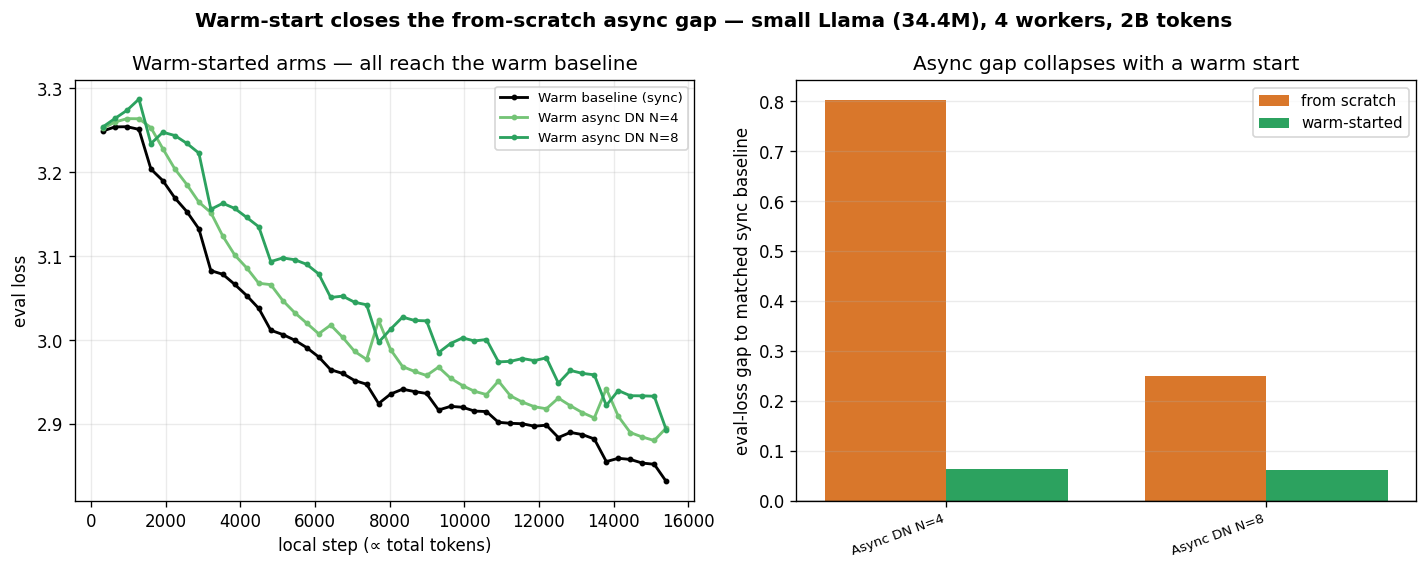
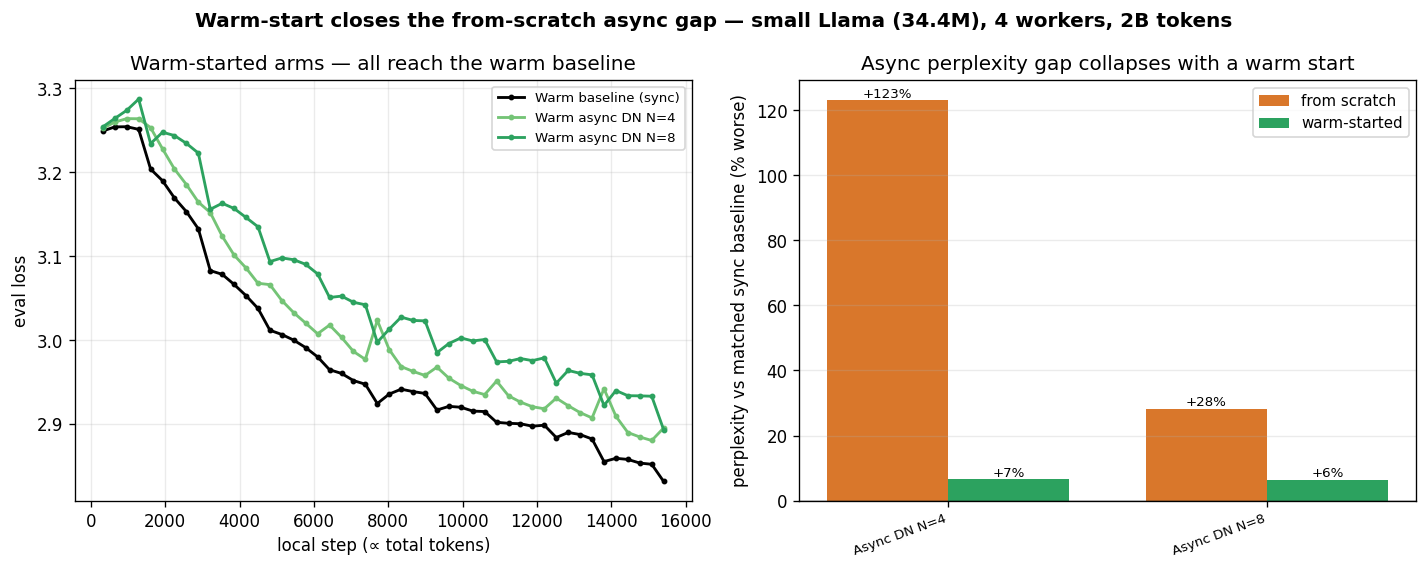
diloco_features: report comparisons as relative perplexity (§3.7)
Per review: comparing raw eval loss across the scratch (2B from random init) and
warm (2B on top of 500M) groups is meaningless. Use relative perplexity vs each
group's OWN sync baseline — "% worse perplexity than the matched baseline" — which
normalizes out the different starting points (and perplexity is the DiLoCo paper's
reporting unit).

- §3.7.1 warm table: drop the raw scratch-vs-warm loss juxtaposition; show warm
  eval/ppl + % worse ppl vs warm base, alongside the scratch arms' % worse ppl vs
  scratch base (+123%/+28% scratch -> +6.6%/+6.4% warm).
- warm_compare.py bar chart: relative perplexity (% worse vs matched baseline),
  not raw eval-loss gap; with value labels.
- Perplexity column now in every results table (added to DyLU); all comparison
  columns expressed as % worse ppl for consistency (diverged no-DN reads
  "diverged"). Prose/abstract/§5 updated to match.

diff --git a/examples/tiny_experiments/diloco_features/analysis/warm_compare.py b/examples/tiny_experiments/diloco_features/analysis/warm_compare.py
@@ -15,9 +15,11 @@ normalizes each group to its own baseline):
   * Left — the warm arms only, eval loss: baseline + async (+ DyLU) all hug each
     other near the warm baseline. (Warm curves start mid-descent, from the
     checkpoint.) Own y-range.
-  * Right — the async gap to its *matched* sync baseline, scratch vs warm, per
-    arm (deltas, so comparable): the collapse from +0.25..+0.80 (scratch) to
-    ~+0.03..+0.06 (warm).
+  * Right — RELATIVE PERPLEXITY vs each group's *own* matched sync baseline
+    (% worse, = (exp(eval - base) - 1)·100), scratch vs warm, per arm. This is the
+    comparable cross-regime metric — raw losses are NOT comparable (the warm group
+    trained 500M more tokens), but "% worse perplexity than your own baseline" is.
+    The collapse: ~+123%/+28% (scratch) to ~+7% (warm).
 
 Reads the committed ``assets/curves.csv`` (analysis/harvest.py).
 
@@ -25,6 +27,7 @@ Reads the committed ``assets/curves.csv`` (analysis/harvest.py).
 """
 
 import csv
+import math
 import os
 from collections import defaultdict
 
@@ -69,14 +72,22 @@ def main():
     sb = final_eval(data, SCRATCH_BASE)
     wb = final_eval(data, WARM_BASE)
 
+    # The comparable quantity across regimes is RELATIVE PERPLEXITY vs each group's
+    # OWN baseline: % worse perplexity = (exp(eval - base_eval) - 1) * 100. Raw
+    # losses are not comparable (the warm group has 500M more tokens), but "how much
+    # worse than your own sync baseline" is — and perplexity (the DiLoCo paper's
+    # axis) is the natural unit for a log-scale loss.
+    def rel_ppl_pct(arm, base_eval):
+        return (math.exp(final_eval(data, arm) - base_eval) - 1.0) * 100.0
+
     print(f"scratch baseline {sb:.4f} | warm baseline {wb:.4f}\n")
-    print(f"{'arm':<22}{'scratch gap':>12}{'warm gap':>12}")
+    print(f"{'arm':<22}{'scratch %ppl':>14}{'warm %ppl':>12}")
     rows = []
     for sk, wk, lbl in PAIRS:
-        sg = final_eval(data, sk) - sb
-        wg = final_eval(data, wk) - wb
+        sg = rel_ppl_pct(sk, sb)
+        wg = rel_ppl_pct(wk, wb)
         rows.append((lbl, sg, wg))
-        print(f"{lbl:<22}{sg:>+12.4f}{wg:>+12.4f}")
+        print(f"{lbl:<22}{sg:>+13.1f}%{wg:>+11.1f}%")
 
     plt.rcParams.update({"figure.dpi": 120, "font.size": 10})
     fig, axes = plt.subplots(1, 2, figsize=(12, 4.8))
@@ -110,30 +121,41 @@ def main():
     ax.legend(fontsize=8)
     ax.grid(alpha=0.25)
 
-    # Right: gap-to-matched-baseline, scratch vs warm.
+    # Right: RELATIVE PERPLEXITY vs each group's matched sync baseline (% worse),
+    # scratch vs warm — the comparable cross-regime metric (raw losses aren't,
+    # since the warm group trained 500M more tokens).
     ax = axes[1]
     labels = [r[0] for r in rows]
     x = range(len(rows))
     w = 0.38
-    ax.bar(
+    bars_s = ax.bar(
         [i - w / 2 for i in x],
         [r[1] for r in rows],
         w,
         label="from scratch",
         color="#d9772b",
     )
-    ax.bar(
+    bars_w = ax.bar(
         [i + w / 2 for i in x],
         [r[2] for r in rows],
         w,
         label="warm-started",
         color="#2ca25f",
     )
+    for bars in (bars_s, bars_w):
+        for b in bars:
+            ax.annotate(
+                f"+{b.get_height():.0f}%",
+                (b.get_x() + b.get_width() / 2, b.get_height()),
+                ha="center",
+                va="bottom",
+                fontsize=8,
+            )
     ax.axhline(0, color="#000000", lw=0.8)
     ax.set_xticks(list(x))
     ax.set_xticklabels(labels, rotation=20, ha="right", fontsize=8)
-    ax.set_ylabel("eval-loss gap to matched sync baseline")
-    ax.set_title("Async gap collapses with a warm start")
+    ax.set_ylabel("perplexity vs matched sync baseline (% worse)")
+    ax.set_title("Async perplexity gap collapses with a warm start")
     ax.legend(fontsize=9)
     ax.grid(alpha=0.25, axis="y")
 

diff --git a/examples/tiny_experiments/diloco_features/README.md b/examples/tiny_experiments/diloco_features/README.md
@@ -63,7 +63,7 @@ init at this small scale — suggestive, single seed):
 | Knob | Flag (on `diloco server`) | Buys you | Costs | Measured here |
 |---|---|---|---|---|
 | **Streaming** | `--num-fragments N` `--fragment-assignment {strided,sequential}` | smooths bandwidth — fragments sent across the compute window, no all-at-once burst | a small, steady convergence cost; strided ≥ sequential, gap grows at finer grain | small per-token gap (+0.06–0.14 eval); **faster wall-clock**; strided N=5 closest + fastest |
-| **Async + DN** | `--async --dn-buffer-size N` | drops the barrier — fast workers don't wait on stragglers | needs the DN buffer (required with `--async`); some convergence cost under staleness | from scratch trails sync (depth a non-monotonic lever, **N=8 optimum** +0.25); **warm-started ≈ sync** (+0.03–0.06), and depth stops mattering (§3.7.1) |
+| **Async + DN** | `--async --dn-buffer-size N` | drops the barrier — fast workers don't wait on stragglers | needs the DN buffer (required with `--async`); some convergence cost under staleness | from scratch trails sync (depth a non-monotonic lever, **N=8 optimum** +28% ppl vs +123% for N=4); **warm-started ≈ sync** (~+7% ppl), and depth stops mattering (§3.7.1) |
 | **Grace period** | `--grace-period S` | a brief, opportunistic wait so a finished worker can coalesce with a near-simultaneous finisher — cuts the slow-worker *tail* in a heterogeneous / large-N pool | only pays off when the tail is real (large N, mixed speeds); its benefit is **wall-clock**, not convergence | **not a study arm** — the rig has no tail to cut; validated functional only, real benefit → Future Directions |
 | **DyLU** | `--dylu` | matches each worker's sync rate to its throughput, cutting staleness | only helps heterogeneous / unevenly-loaded workers | **mechanism fires, convergence-neutral**: at a verified 4:1 spread DyLU cuts mean staleness 2.33→1.50 (and ~2× the sync rounds), but eval is unmoved (Δ 0.004); per-token payoff unmeasurable here, real benefit is wall-clock → Future Directions |
 
@@ -440,13 +440,13 @@ Equal-speed workers with injected per-step jitter (staleness ≈ 3); the sync
 baseline is the reference (same equal-speed condition). "vs sync" is the final-eval
 delta.
 
-| Configuration | eval loss | perplexity | vs sync | mean staleness | notes |
+| Configuration | eval loss | perplexity | ppl vs sync | mean staleness | notes |
 |---|---|---|---|---|---|
 | Sync DiLoCo (baseline) | 2.859 | 17.4 | — | — | reference |
-| Async without DN | 8.323 | 4118 | +5.46 | 3.0 | diverged (control) |
-| Async + DN (N=4) | 3.661 | 38.9 | +0.802 | 1.5 | paper default (N=k) |
-| Async + DN (N=8) | **3.107** | **22.4** | **+0.249** | 1.5 | **DN-sweep optimum** |
-| Async + DN (N=16) | 3.373 | 29.2 | +0.514 | 1.3 | over-buffered |
+| Async without DN | 8.323 | 4118 | diverged | 3.0 | diverged (control) |
+| Async + DN (N=4) | 3.661 | 38.9 | +123% | 1.5 | paper default (N=k) |
+| Async + DN (N=8) | **3.107** | **22.4** | **+28%** | 1.5 | **DN-sweep optimum** |
+| Async + DN (N=16) | 3.373 | 29.2 | +67% | 1.3 | over-buffered |
 
 ![Async eval-loss comparison: sync baseline vs async no-DN (diverges) and the DN-buffer depth sweep N=4/8/16 — full trajectory and converged-runs endgame zoom](assets/loss_comparison.png)
 
@@ -458,9 +458,10 @@ Without the Delayed-Nesterov buffer, async with induced staleness ~3 diverges (e
 8.32, the run trips the divergence detector ~3% in) — the control that motivates
 DN. With DN the run is stable, but depth matters more than the paper's `N = k`
 default suggests: sweeping N ∈ {4, 8, 16} (figure below) is **non-monotonic**, with
-**N=8 the optimum** — it closes roughly half the from-scratch gap to the baseline
-(+0.249 vs N=4's +0.802), while N=16 *regresses* (+0.514). The sweet spot sits near
-~2× the mean staleness: too shallow under-absorbs stale pseudo-gradients, too deep
+**N=8 the optimum** — it roughly halves the from-scratch perplexity gap to the
+baseline (**+28%** worse ppl vs N=4's **+123%**), while N=16 *regresses* (+67%). The
+sweet spot sits near ~2× the mean staleness: too shallow under-absorbs stale
+pseudo-gradients, too deep
 over-delays the Nesterov momentum. The paper's `N = k = 4` is thus *under*-buffered
 for the from-scratch + staleness regime, but "deeper is always better" is false.
 (Single seed; the N=8 < N=16 ordering carries a noise caveat, but the N=4 → N=8
@@ -472,7 +473,7 @@ improvement is large.)
 ([`analysis/dn_sweep.py`](analysis/dn_sweep.py)).*
 
 **Async from scratch does not reach the sync baseline.** Even the best async arm
-(N=8, +0.249) trails the baseline. This is consistent with the from-scratch premise
+(N=8, +28% perplexity) trails the baseline. This is consistent with the from-scratch premise
 being the hard part for async specifically (§2.6): sync DiLoCo reaches the baseline
 from scratch, but async — even DN-stabilized and depth-tuned — does not, in this
 budget. Whether that is *async* or the *from-scratch regime* is tested with a warm
@@ -490,32 +491,35 @@ grad-norm blow-up is the divergence ([`analysis/plot_experiment.py`](analysis/pl
 then re-ran the async arms **and a warm sync baseline** from that checkpoint (2B
 further tokens; the checkpoint is assembled into a server master by
 [`make_warm_master.py`](make_warm_master.py) and selected via `experiment.sh`'s
-`WARM_MASTER` knob). Each warm arm is judged against the *warm* baseline — the same
-start point, the fair comparison. The two groups are juxtaposed below but **never
-on one loss axis** — their y-ranges differ vastly (scratch ~9→2.85, warm ~3.2→2.83),
-so the cross-comparison is the *gap* to each group's own baseline.
+`WARM_MASTER` knob). **The two regimes' raw losses are not directly comparable** —
+the warm group trained ~500M tokens *more* (the checkpoint) than the scratch group.
+The fair, log-aware metric is **relative perplexity vs each group's own sync
+baseline** — "how much worse than the matched baseline" — which normalizes out the
+different starting points (and perplexity is the DiLoCo paper's reporting unit):
 
-| Configuration | scratch eval (vs scratch base) | warm eval (vs warm base) |
-|---|---|---|
-| Sync baseline | 2.859 (—) | 2.831 (—) |
-| Async + DN (N=4) | 3.661 (+0.802) | 2.895 (+0.064) |
-| Async + DN (N=8) | 3.107 (+0.249) | 2.893 (+0.062) |
+| Arm | warm eval loss | warm perplexity | warm: % worse ppl vs base | from scratch: % worse ppl vs base |
+|---|---|---|---|---|
+| Sync baseline | 2.831 | 17.0 | — | — |
+| Async + DN (N=4) | 2.895 | 18.1 | **+6.6%** | +123% |
+| Async + DN (N=8) | 2.893 | 18.0 | **+6.4%** | +28% |
 
-![Warm-start: left, the warm arms' eval-loss trajectories on their own scale all converging onto the warm baseline; right, the async gap to the matched sync baseline collapsing from +0.25..+0.80 (scratch) to +0.03..+0.06 (warm)](assets/warm_compare.png)
+![Warm-start: left, the warm arms' eval-loss trajectories on their own scale all converging onto the warm baseline; right, relative perplexity vs each group's matched sync baseline (% worse) — +123%/+28% from scratch collapsing to ~+7% warm](assets/warm_compare.png)
 
-*Warm-started arms on their own scale (left) + the gap collapse vs scratch, as
-deltas (right) — [`analysis/warm_compare.py`](analysis/warm_compare.py).*
+*Warm-started arms on their own scale (left); the perplexity gap to each group's
+own baseline, scratch vs warm (right, % worse — the comparable cross-regime metric)
+— [`analysis/warm_compare.py`](analysis/warm_compare.py).*
 
-Every warm async arm lands within **+0.03–0.06** of the warm sync baseline — versus
-**+0.25–0.80** from scratch. So **async DiLoCo ≈ sync once warm-started**: the large
-from-scratch gap was the *regime*, not async itself — exactly the pre-registered
-§2.6 reading, and why the source papers warm-start their async runs. And the
-DN-buffer depth that was a strong lever from scratch (N=4 → N=8 gained 0.55 eval)
-**collapses** warm — warm_dn4 (+0.064) and warm_dn8 (+0.062) differ by 0.002. A warm
-start means small, well-aligned pseudo-gradients, so sequentially-applied staleness
-does little damage and the buffer that absorbs it is barely needed. (Single seed,
-~1× Chinchilla of pretraining; a pretrain-budget sweep — *how warm is warm enough?*
-— is the natural follow-up, §6.)
+Warm-started, every async arm is within **~+7% perplexity** of the warm sync
+baseline — versus **+123%** (N=4) and **+28%** (N=8) from scratch. So **async DiLoCo
+≈ sync once warm-started**: the large from-scratch gap was the *regime*, not async
+itself — exactly the pre-registered §2.6 reading, and why the source papers
+warm-start their async runs. And the DN-buffer depth that was a strong lever from
+scratch (N=4's +123% vs N=8's +28%) **collapses** warm — warm dn4 (+6.6%) and dn8
+(+6.4%) are within 0.2 points. A warm start means small, well-aligned
+pseudo-gradients, so sequentially-applied staleness does little damage and the
+buffer that absorbs it is barely needed. (Single seed, ~1× Chinchilla of
+pretraining; a pretrain-budget sweep — *how warm is warm enough?* — is the natural
+follow-up, §6.)
 
 #### 3.7.2 Streaming (orthogonal axis: synchronous DiLoCo, fragmented comm)
 
@@ -524,22 +528,22 @@ splits each sync into block-boundary fragments sent across the compute window. I
 is a separate axis, compared to the sync baseline on its own terms (equal speed, no
 jitter); it does not belong in the async table above.
 
-| Configuration | eval loss | perplexity | vs sync | wall-clock | notes |
+| Configuration | eval loss | perplexity | ppl vs sync | wall-clock | notes |
 |---|---|---|---|---|---|
 | Sync DiLoCo (baseline) | 2.859 | 17.4 | — | 50.5 min | reference |
-| Streaming (strided N=2) | 2.992 | 19.9 | +0.134 | 45.1 min | |
-| Streaming (sequential N=2) | 3.001 | 20.1 | +0.142 | 45.1 min | assignment A/B |
-| Streaming (strided N=5) | 2.919 | 18.5 | +0.060 | 44.5 min | finer grain |
+| Streaming (strided N=2) | 2.992 | 19.9 | +14% | 45.1 min | |
+| Streaming (sequential N=2) | 3.001 | 20.1 | +15% | 45.1 min | assignment A/B |
+| Streaming (strided N=5) | 2.919 | 18.5 | +6% | 44.5 min | finer grain |
 
 **Streaming trades per-token quality for wall-clock — and at fine grain nearly
-erases the trade.** All streaming arms are slightly worse *per token* (+0.06 to
-+0.14 eval), as expected: fragment-wise outer steps update each parameter against a
+erases the trade.** All streaming arms are slightly worse *per token* (+6% to +15%
+perplexity), as expected: fragment-wise outer steps update each parameter against a
 slightly staler global view. But they all finish *faster in wall-clock* (44.5–45.1
 min vs 50.5) because the per-fragment barriers overlap communication with compute.
 On the fair loss-vs-wall-clock axis (figure below) the finest grain, strided N=5,
-lands closest per token (+0.060) *and* finishes first — it essentially matches the
+lands closest per token (+6% ppl) *and* finishes first — it essentially matches the
 baseline's loss trajectory in real time. The strided-vs-sequential assignment A/B
-is a wash at N=2 (+0.009 in favor of strided), so fragment *grain* matters more
+is a wash at N=2 (~1% ppl in favor of strided), so fragment *grain* matters more
 than assignment here.
 
 ![Streaming on the wall-clock axis: streaming arms finish faster than the sync baseline; strided N=5 crosses to match its trajectory in real time (full + endgame zoom)](assets/walltime_comparison.png)
@@ -588,10 +592,10 @@ the per-step CPU `sleep` partially overlaps async GPU compute — landed wall-cl
 land ~1×/2×/3×/4×. An earlier ~1.6× spread was too mild to exercise DyLU; this is
 the re-run at 4:1.)
 
-| Configuration | eval loss | vs warm baseline (2.831) | mean staleness | sync rounds |
-|---|---|---|---|---|
-| Warm async + DN, ~4:1 spread, DyLU off | 2.855 | +0.023 | 2.33 | 615 |
-| Warm async + DN, ~4:1 spread, DyLU on | 2.851 | +0.019 | **1.50** | **1220** |
+| Configuration | eval loss | perplexity | % worse ppl vs warm base | mean staleness | sync rounds |
+|---|---|---|---|---|---|
+| Warm async + DN, ~4:1 spread, DyLU off | 2.855 | 17.4 | +2.4% | 2.33 | 615 |
+| Warm async + DN, ~4:1 spread, DyLU on | 2.851 | 17.3 | +2.0% | **1.50** | **1220** |
 
 ![DyLU off vs on at a ~4:1 speed spread (warm-started): eval-loss trajectories essentially overlapping, both tracking toward the warm sync baseline](assets/dylu_control.png)
 
@@ -603,9 +607,10 @@ the re-run at 4:1.)
 2.33 to 1.50** and roughly **doubles the sync rounds** (1220 vs 615) — the adaptive
 per-worker `sync_every` raising the fast workers' sync rate to stay aligned with the
 stragglers. (This is a cleaner signal than the discarded ~1.6× run, where the
-spread was too mild and the snapshot staleness was noise.) **Yet the eval loss is
-unmoved**: dylu_on (2.851) vs dylu_off (2.855) differ by 0.004, within seed noise,
-and both reach the warm baseline. The DN buffer already absorbs the staleness well
+spread was too mild and the snapshot staleness was noise.) **Yet the loss is
+unmoved**: dylu_on and dylu_off land at +2.0% and +2.4% perplexity vs the warm
+baseline — a 0.4-point difference (0.004 eval), within seed noise — and both reach
+the warm baseline. The DN buffer already absorbs the staleness well
 enough that reducing it further does not change per-token convergence — consistent
 with the design's caveat (§3.5–3.6) that DyLU's payoff is wall-clock tail reduction
 under genuine large-scale heterogeneity (off-rig), not a per-token win. The cost it
@@ -654,18 +659,18 @@ pre-registered hypotheses, each with a fixed control:
    (arm 6 vs 1), with the no-DN control (arm 5) diverging.
    *Result: partially refuted.* The no-DN control diverges as predicted (DN is
    necessary), but the Algorithm-3 N = k = 4 form is **not** sufficient from
-   scratch — it trails sync by +0.80 eval. Buffer depth turned out to be a
-   non-monotonic lever (the §3.4 sweep): **N=8 is the optimum** (+0.25, ~half the
-   gap closed), N=16 regresses. Per the §2.6 regime caveat, the from-scratch gap is
-   not a refutation of the paper (which warm-starts): **warm-started, N = k = 4 ≈
-   sync** (+0.064) and the depth dependence collapses (§3.7.1) — so the paper's
-   default is right *in its own warm regime*, and only under-buffered from scratch.
+   scratch — it trails sync by +123% perplexity. Buffer depth turned out to be a
+   non-monotonic lever (the §3.4 sweep): **N=8 is the optimum** (+28%, ~half the
+   gap closed), N=16 regresses (+67%). Per the §2.6 regime caveat, the from-scratch
+   gap is not a refutation of the paper (which warm-starts): **warm-started, N = k =
+   4 ≈ sync** (+6.6% ppl) and the depth dependence collapses (§3.7.1) — so the
+   paper's default is right *in its own warm regime*, only under-buffered from scratch.
 2. **Streaming costs little and strided ≥ sequential**, the assignment gap visible
    at the finer N=5 grain (arms 2–4 vs 1).
-   *Result: supported.* Small per-token cost (+0.06–0.14 eval), strided N=5
-   closest (+0.060); on the wall-clock axis streaming finishes faster and N=5
+   *Result: supported.* Small per-token cost (+6–15% perplexity), strided N=5
+   closest (+6%); on the wall-clock axis streaming finishes faster and N=5
    nearly matches the baseline trajectory. The N=2 assignment A/B is a wash
-   (+0.009), so grain dominates assignment at this scale.
+   (~1% ppl), so grain dominates assignment at this scale.
 3. **DyLU cuts staleness under a synthetic speed spread** (warm-only off-vs-on A/B,
    §3.7.3) — a mechanism-validation; the real mixed-GPU benefit is future work.
    *Result: mechanism confirmed, convergence-neutral.* At a verified 4:1 spread DyLU
@@ -677,8 +682,9 @@ pre-registered hypotheses, each with a fixed control:
    random-init robustness to async (the whole study trains from scratch).
    *Result: refuted from scratch, recovered warm.* Async≈sync does **not** hold
    from random init (§3.7); but warm-started from a ~500M-token checkpoint it does
-   (§3.7.1) — every warm async arm within +0.03–0.06 of a warm sync baseline. So
-   async's robustness is regime-dependent: the from-scratch phase is the obstacle,
+   (§3.7.1) — every warm async arm within ~+7% perplexity of a warm sync baseline
+   (vs +123%/+28% from scratch). So async's robustness is regime-dependent: the
+   from-scratch phase is the obstacle,
    not async per se, which is exactly why the source papers warm-start.
 
 Any headline result ambiguous within plausible seed noise is reported as a
@@ -705,8 +711,9 @@ documented small-effect finding, not re-run.
   N=8 < N=16 ordering and the N → ∞ limit (toward synchronous), plus whether the
   optimal N tracks the mean staleness across staleness levels.
 - **Async pretrain-budget sweep.** §3.7.1 already answers the from-scratch premise
-  (§2.6): a ~500M-token (≈1× Chinchilla) warm start closes the async gap to
-  +0.03–0.06 of a warm sync baseline. The open follow-up is the *budget* axis —
+  (§2.6): a ~500M-token (≈1× Chinchilla) warm start closes the async gap to ~+7%
+  perplexity of a warm sync baseline (from +123%/+28% scratch). The open follow-up
+  is the *budget* axis —
   how warm is warm enough? Sweep the pretrain budget (e.g. 0 / 100M / 500M / 1B)
   and map where async≈sync emerges. The tooling is in place:
   [`templates/configs/warm_pretrain.yaml`](templates/configs/warm_pretrain.yaml)
